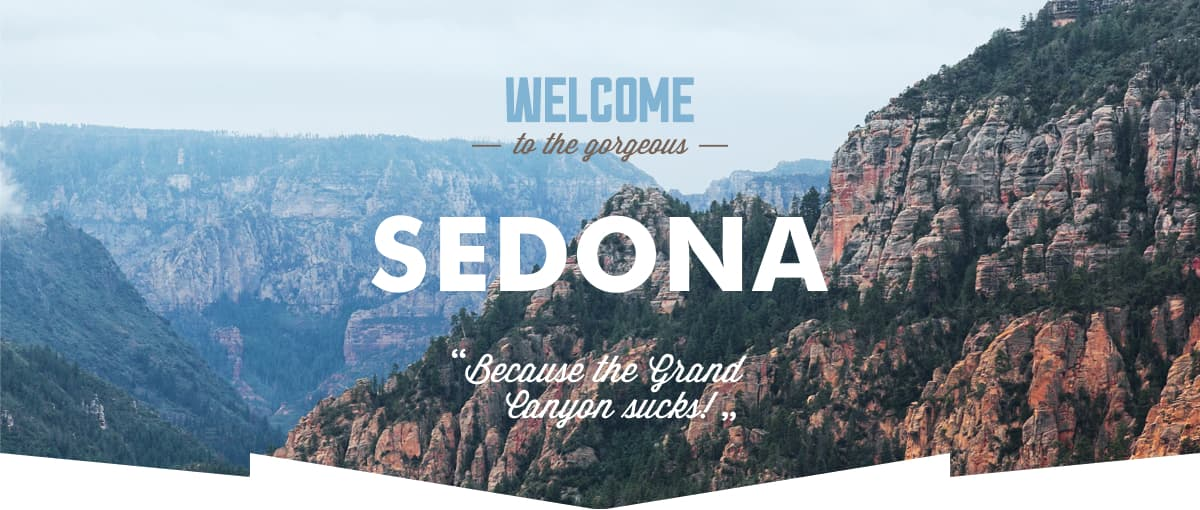
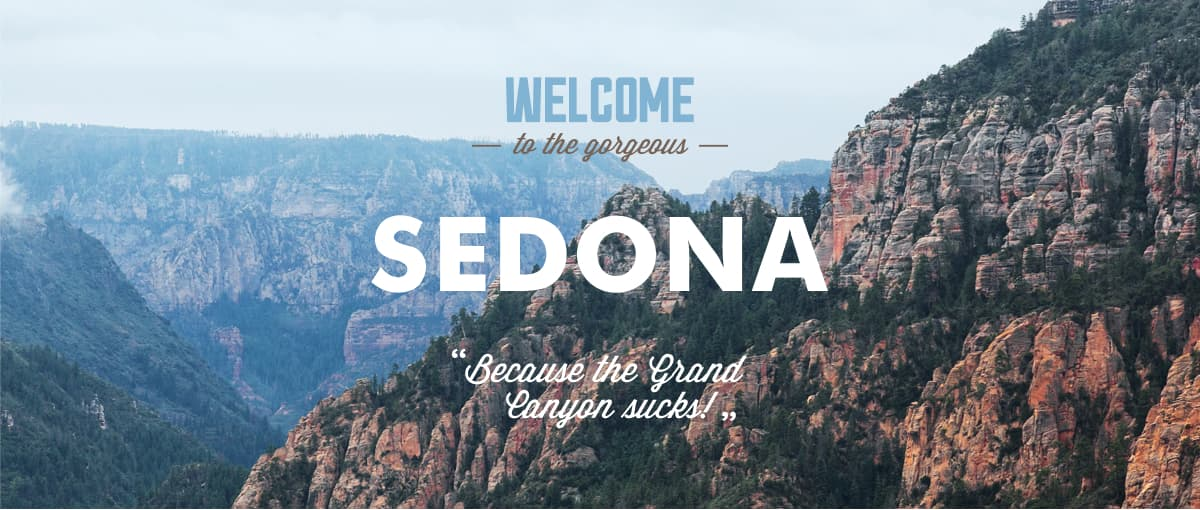
Заканчивает форму, добавляет карту

Changed region(s): [[0.5242, 0.8824, 1.0, 1.0], [0.0, 0.8824, 0.4933, 1.0]]

diff --git a/css/style.css b/css/style.css
@@ -302,9 +302,20 @@ input[type="radio"].visually-hidden {
 }
 
 .welcome__image {
+  position: relative;
   width: 1200px;
   height: 510px;
   margin-bottom: 40px;
+  background-color: var(--gray-ee);
+}
+
+.welcome__image::before {
+  position: absolute;
+  content: "";
+  background-image: url("../img/mask.png");
+  height: 57px;
+  width: 100%;
+  bottom: 0;
 }
 
 .welcome__title {
@@ -467,6 +478,7 @@ input[type="radio"].visually-hidden {
 /*===== SEARCH =====*/
 
 .search {
+  position: relative;
   width: 568px;
   margin: 0 auto;
   padding: 58px 0 0 0;
@@ -497,6 +509,7 @@ input[type="radio"].visually-hidden {
 }
 
 .search__form {
+  position: absolute;
   display: flex;
   flex-wrap: wrap;
   justify-content: space-between;
@@ -511,6 +524,7 @@ input[type="radio"].visually-hidden {
   display: flex;
   justify-content: space-between;
   align-items: center;
+  margin: 0 0 53px;
 }
 
 .search__form-inner--grow {
@@ -656,3 +670,10 @@ input[type="radio"].visually-hidden {
 .search__form-quantity-button:active svg {
   fill: var(--blue-light);
 }
+
+.search__form-button {
+  width: 100%;
+}
+
+
+/*TODO - Проверь главную по стайлгайду!!!!!!!*/

diff --git a/index.html b/index.html
@@ -43,7 +43,9 @@
 
     <main>
       <section class="welcome">
-        <img class="welcome__image" src="img/welcome.jpg" width="1200" height="510" alt="Панорама гор">
+        <div class="welcome__image">
+          <img src="img/welcome.jpg" width="1200" height="510" alt="Панорама гор">
+        </div>
         <h2 class="welcome__title">Седона — небольшой городок в Аризоне,<br>заслуживающий большего!</h2>
         <p class="welcome__text">Рассмотрим 5 причин, по которым Седона круче, чем гранд каньон!</p>
       </section>
@@ -168,8 +170,13 @@
               </button>
             </div>
           </div>
+          <button class="search__form-button button button--l" type="submit">Найти</button>
         </form>
       </section>
+
+      <div class="map">
+        <img src="img/map.jpg" width="1200" height="593" alt="Седона на карте">
+      </div>
     </main>
 
     <footer class="main-footer"></footer>
